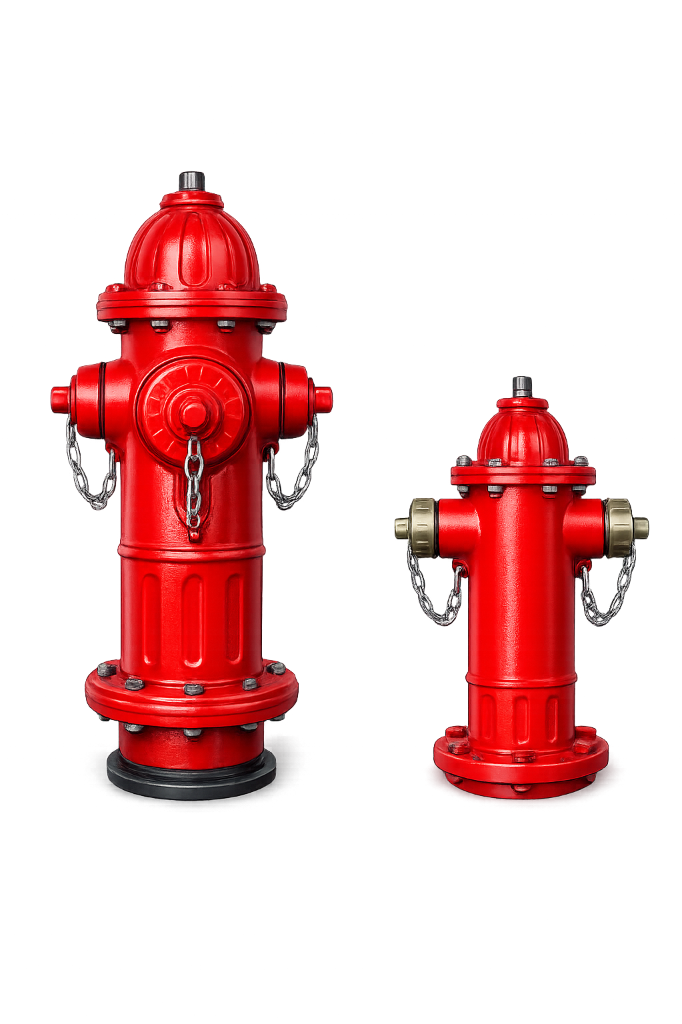
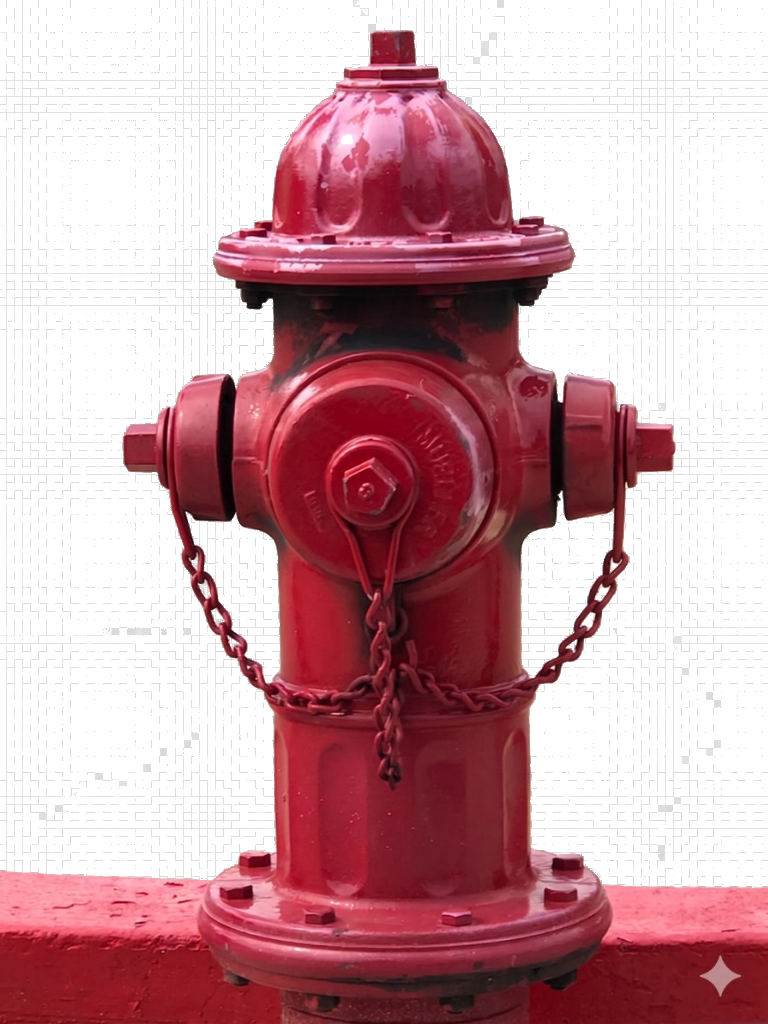
Replace homepage hero images with clean transparent versions for extinguisher, pull station, and hydrant

diff --git a/process_new_images.js b/process_new_images.js
@@ -1,0 +1,154 @@
+import { Jimp } from 'jimp';
+
+async function cleanImage(inputPath, outputPath) {
+  try {
+    console.log(`\n---------------------------------------`);
+    console.log(`Reading image: ${inputPath}`);
+    const image = await Jimp.read(inputPath);
+    const width = image.bitmap.width;
+    const height = image.bitmap.height;
+    console.log(`Loaded size: ${width}x${height}`);
+
+    // 1. Automatically detect the primary checkerboard colors by sampling a 40x40 area in the top-left
+    const colorMap = {};
+    for (let y = 2; y < 42; y++) {
+      for (let x = 2; x < 42; x++) {
+        const idx = (x + y * width) * 4;
+        const r = image.bitmap.data[idx];
+        const g = image.bitmap.data[idx + 1];
+        const b = image.bitmap.data[idx + 2];
+        
+        // Quantize colors slightly to group noisy/compressed pixels
+        const qr = Math.round(r / 6) * 6;
+        const qg = Math.round(g / 6) * 6;
+        const qb = Math.round(b / 6) * 6;
+        const key = `${qr},${qg},${qb}`;
+        
+        colorMap[key] = (colorMap[key] || 0) + 1;
+      }
+    }
+
+    // Get the top 4 most frequent colors in the corner area (representing the grid squares)
+    const bgColors = Object.entries(colorMap)
+      .sort((a, b) => b[1] - a[1])
+      .slice(0, 4)
+      .map(([key]) => {
+        const [r, g, b] = key.split(',').map(Number);
+        return { r, g, b };
+      });
+
+    console.log('Detected background grid colors:', bgColors);
+
+    // 2. Perform border-initiated BFS flood-fill
+    const visited = new Uint8Array(width * height);
+    const queue = [];
+
+    // Push all border pixels to seed the flood fill
+    for (let x = 0; x < width; x++) {
+      queue.push({ x, y: 0 });
+      queue.push({ x, y: height - 1 });
+      visited[x] = 1;
+      visited[x + (height - 1) * width] = 1;
+    }
+    for (let y = 1; y < height - 1; y++) {
+      queue.push({ x: 0, y });
+      queue.push({ x: width - 1, y });
+      visited[y * width] = 1;
+      visited[(width - 1) + y * width] = 1;
+    }
+
+    let transparentCount = 0;
+    let head = 0;
+
+    while (head < queue.length) {
+      const { x, y } = queue[head++];
+      const idx = (x + y * width) * 4;
+      
+      const r = image.bitmap.data[idx];
+      const g = image.bitmap.data[idx + 1];
+      const b = image.bitmap.data[idx + 2];
+
+      // Match against the detected background colors with a tight tolerance
+      const matchesBg = bgColors.some(c => Math.abs(c.r - r) < 18 && Math.abs(c.g - g) < 18 && Math.abs(c.b - b) < 18);
+      
+      // Safety guards: Never key out red (canister/hydrant/bell) or saturated yellow labels
+      const isRed = (r - g > 25) && (r - b > 25) && r > 65;
+      const isYellowLabel = r > 160 && g > 160 && b < 100; // typical yellow label warning text
+      const isDarkProductDetail = r < 75 && g < 75 && b < 75 && !matchesBg; // preserve dark details inside object
+
+      if (matchesBg && !isRed && !isYellowLabel && !isDarkProductDetail) {
+        image.bitmap.data[idx + 3] = 0; // Make transparent
+        transparentCount++;
+
+        const neighbors = [
+          { x: x - 1, y },
+          { x: x + 1, y },
+          { x, y: y - 1 },
+          { x, y: y + 1 }
+        ];
+
+        for (const n of neighbors) {
+          if (n.x >= 0 && n.x < width && n.y >= 0 && n.y < height) {
+            const nIdx = n.x + n.y * width;
+            if (!visited[nIdx]) {
+              visited[nIdx] = 1;
+              queue.push(n);
+            }
+          }
+        }
+      }
+    }
+
+    console.log(`BFS Flood-Fill finished. Made ${transparentCount} pixels transparent.`);
+
+    // 3. Global scan keyout for remaining isolated background grid cells in internal holes (like chain loops)
+    let stage2Count = 0;
+    for (let y = 0; y < height; y++) {
+      for (let x = 0; x < width; x++) {
+        const idx = (x + y * width) * 4;
+        if (image.bitmap.data[idx + 3] === 0) continue; // Skip already transparent
+
+        const r = image.bitmap.data[idx];
+        const g = image.bitmap.data[idx + 1];
+        const b = image.bitmap.data[idx + 2];
+
+        const matchesBg = bgColors.some(c => Math.abs(c.r - r) < 15 && Math.abs(c.g - g) < 15 && Math.abs(c.b - b) < 15);
+        const isRed = (r - g > 30) && (r - b > 30) && r > 80;
+        const isYellow = r > 170 && g > 170 && b < 100;
+        const isDarkDetail = r < 80 && g < 80 && b < 80;
+
+        if (matchesBg && !isRed && !isYellow && !isDarkDetail) {
+          image.bitmap.data[idx + 3] = 0;
+          stage2Count++;
+        }
+      }
+    }
+    console.log(`Stage 2 Global Scan complete. Keyed out ${stage2Count} internal grid pixels.`);
+
+    // Save output image
+    console.log(`Writing result to: ${outputPath}`);
+    await image.write(outputPath);
+    console.log(`Successfully completed background removal for: ${outputPath}`);
+  } catch (err) {
+    console.error(`Error processing image ${inputPath}:`, err);
+  }
+}
+
+async function run() {
+  // 1. Fire Alarm pull station (light grid)
+  const alarmIn = 'C:\\Users\\ELCOT\\.gemini\\antigravity\\brain\\990e1a20-19e3-4cf9-bbbb-16305e4d1630\\media__1780817998118.jpg';
+  const alarmOut = 'd:\\fire\\public\\hero_detector.png';
+  await cleanImage(alarmIn, alarmOut);
+
+  // 2. Fire Hydrant (light grid)
+  const hydrantIn = 'C:\\Users\\ELCOT\\.gemini\\antigravity\\brain\\990e1a20-19e3-4cf9-bbbb-16305e4d1630\\media__1780818012990.jpg';
+  const hydrantOut = 'd:\\fire\\public\\hero_hydrant.png';
+  await cleanImage(hydrantIn, hydrantOut);
+
+  // 3. Fire Extinguisher (dark grid)
+  const extinguisherIn = 'C:\\Users\\ELCOT\\.gemini\\antigravity\\brain\\990e1a20-19e3-4cf9-bbbb-16305e4d1630\\media__1780818179129.jpg';
+  const extinguisherOut = 'd:\\fire\\public\\hero_extinguisher.png';
+  await cleanImage(extinguisherIn, extinguisherOut);
+}
+
+run();
